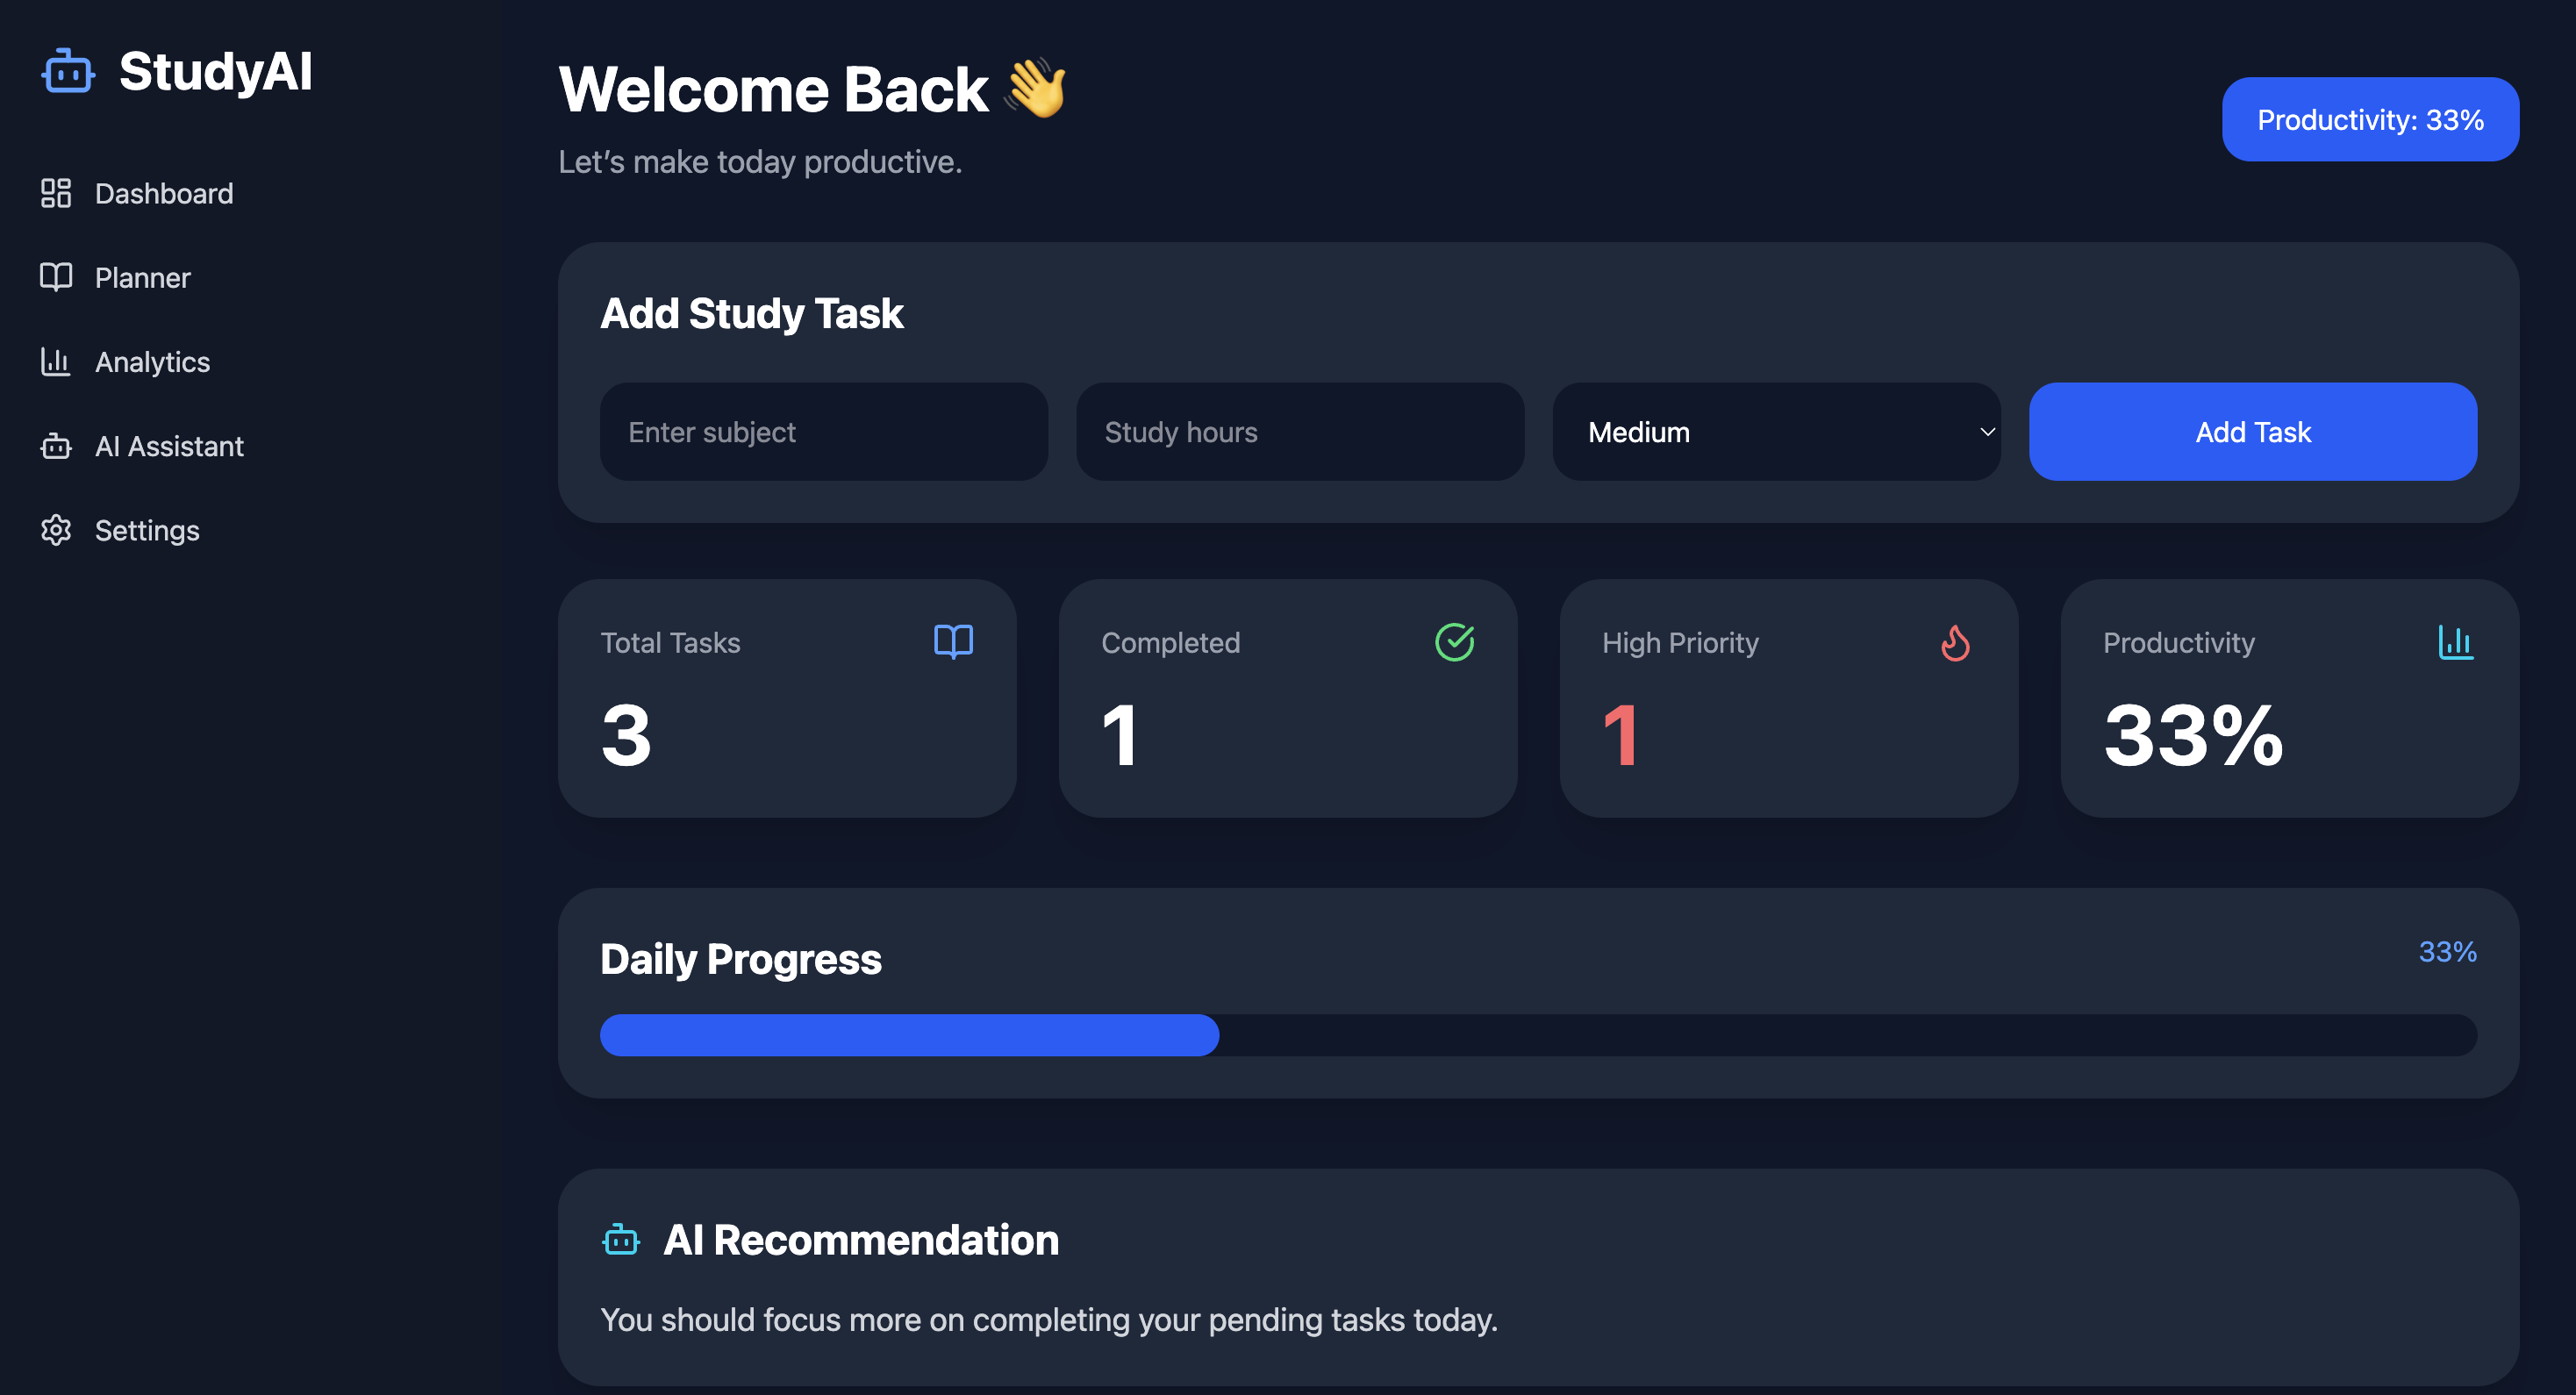
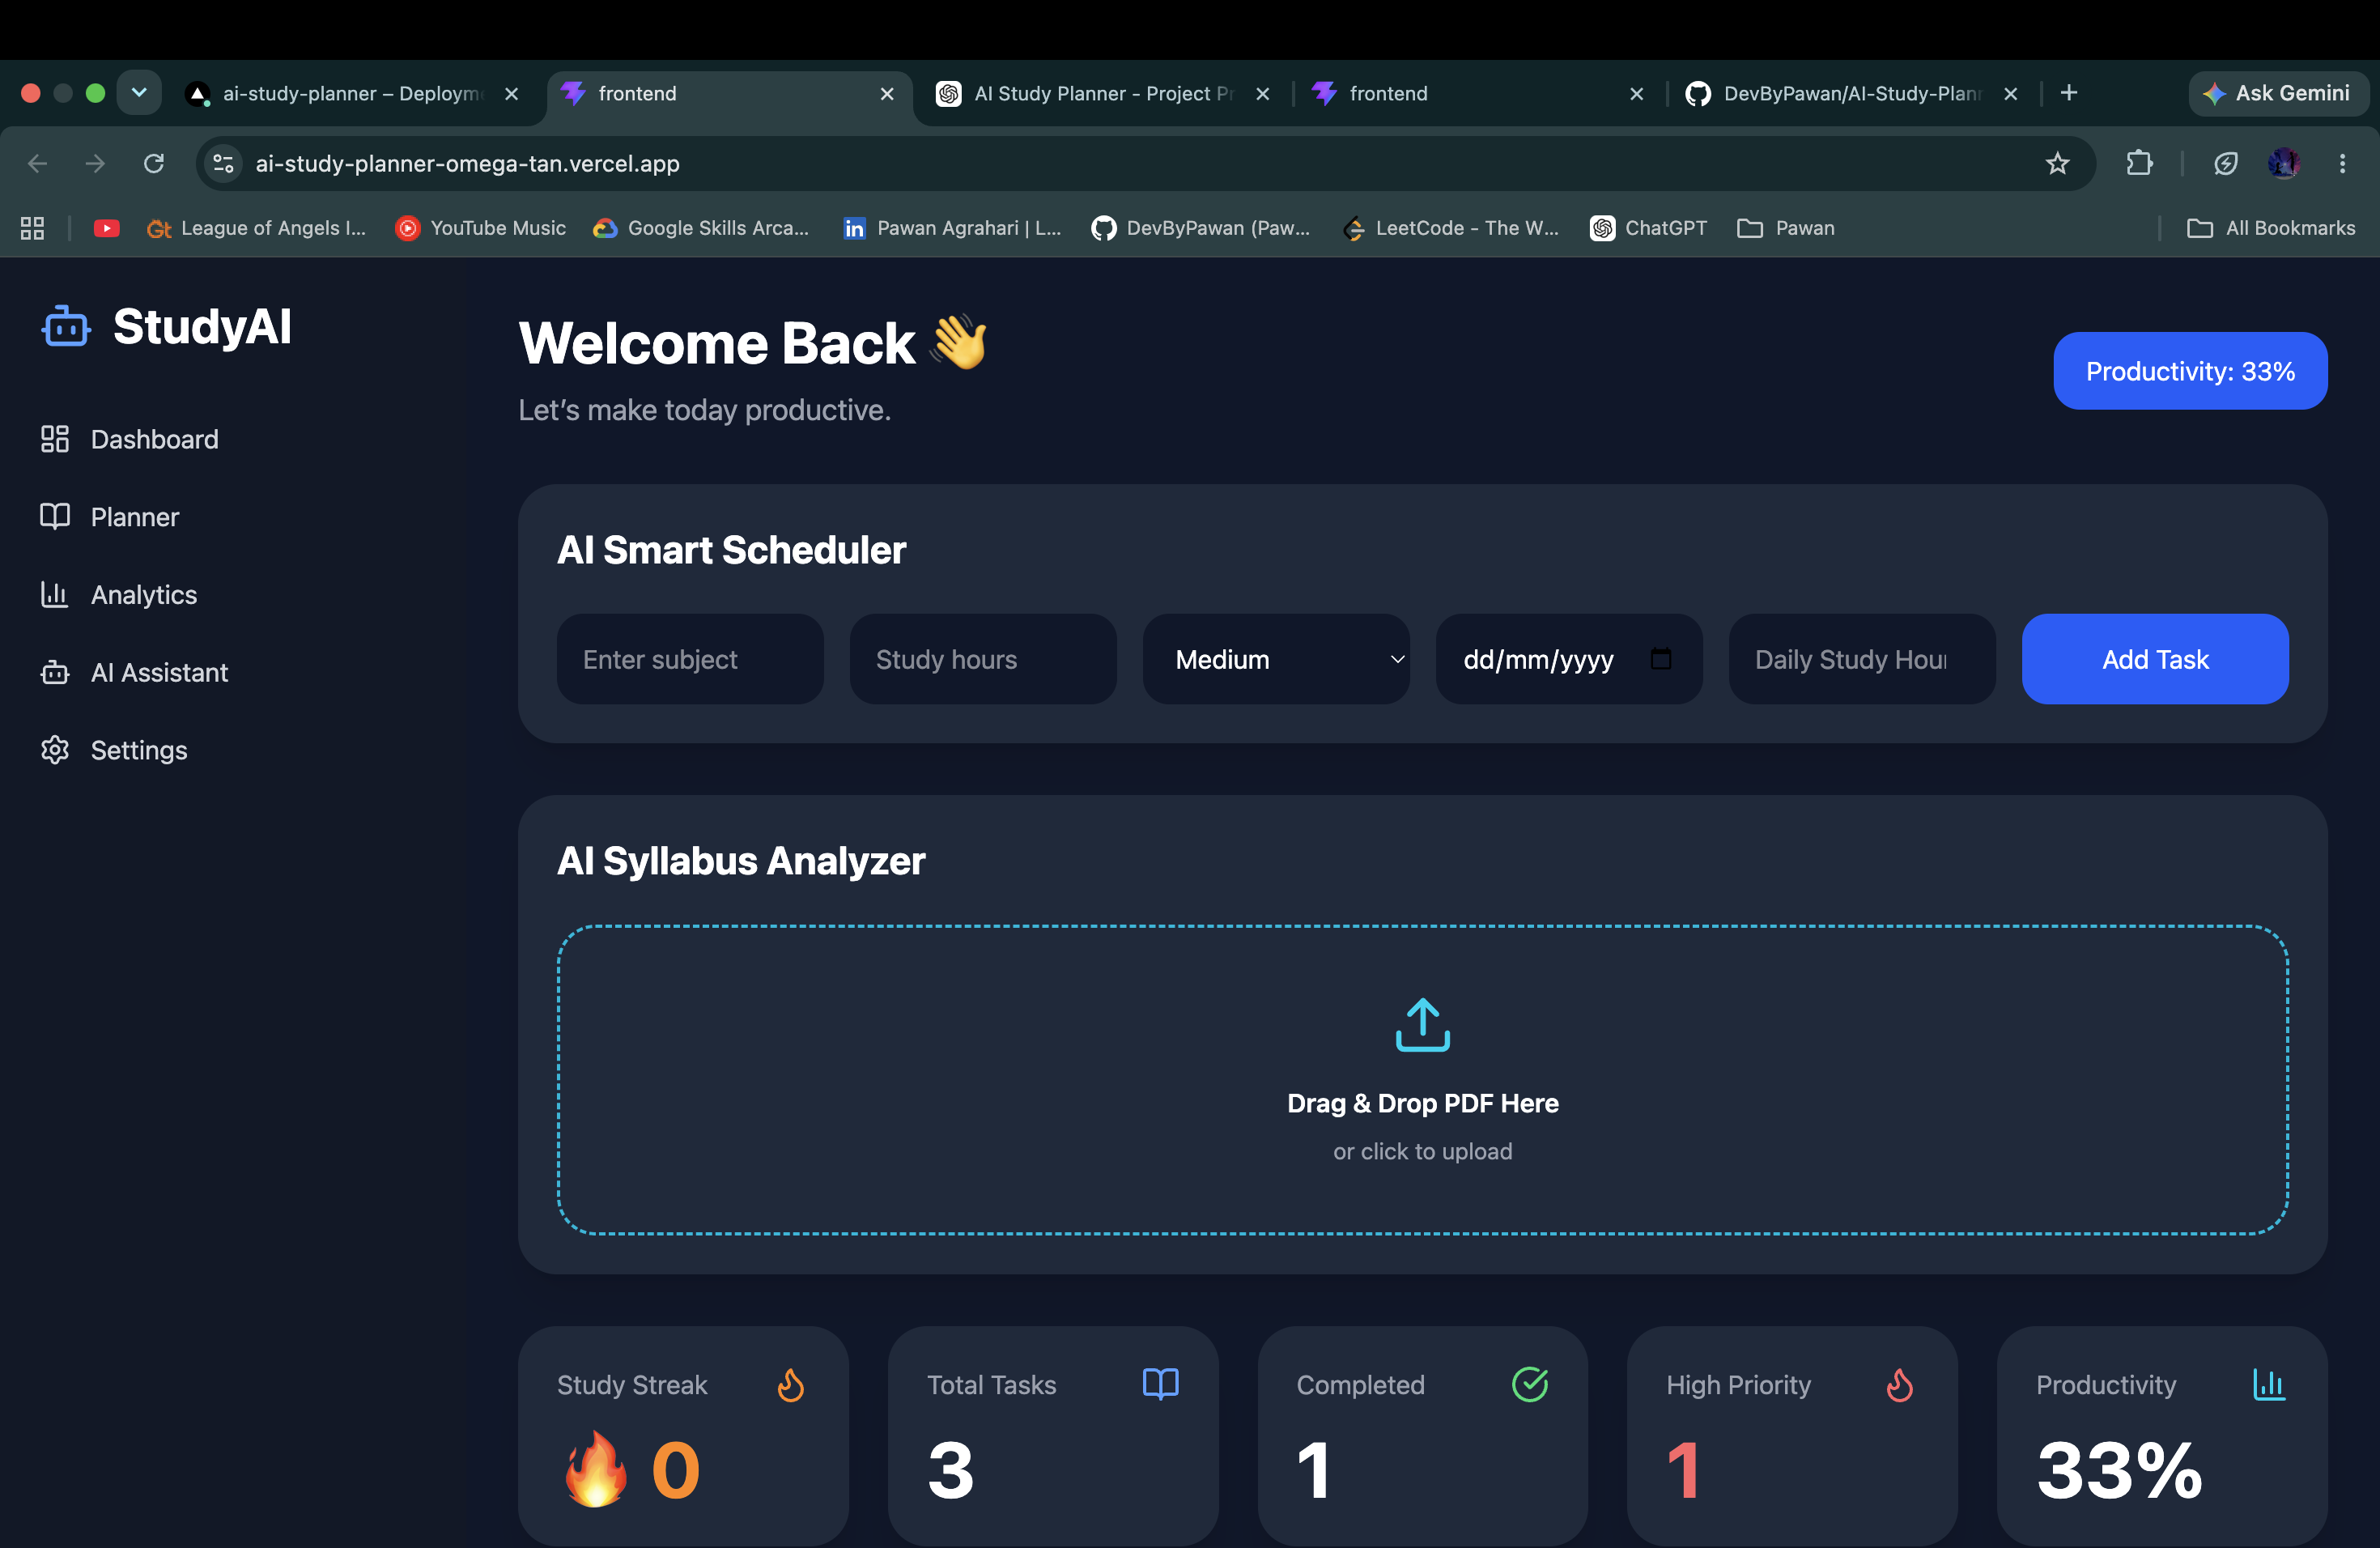
Updated README

diff --git a/README.md b/README.md
@@ -40,9 +40,15 @@ This application helps students manage study tasks, track productivity, organize
 
 ---
 
-## Tasks Section
+## AI Roadmap
 
-![Tasks](screenshots/tasks-section.png)
+![AI Roadmap](ai-roadmap.png)
+
+---
+
+## Study Planner
+
+![Study Planner Image](Study-Plan.png)
 
 ---
 